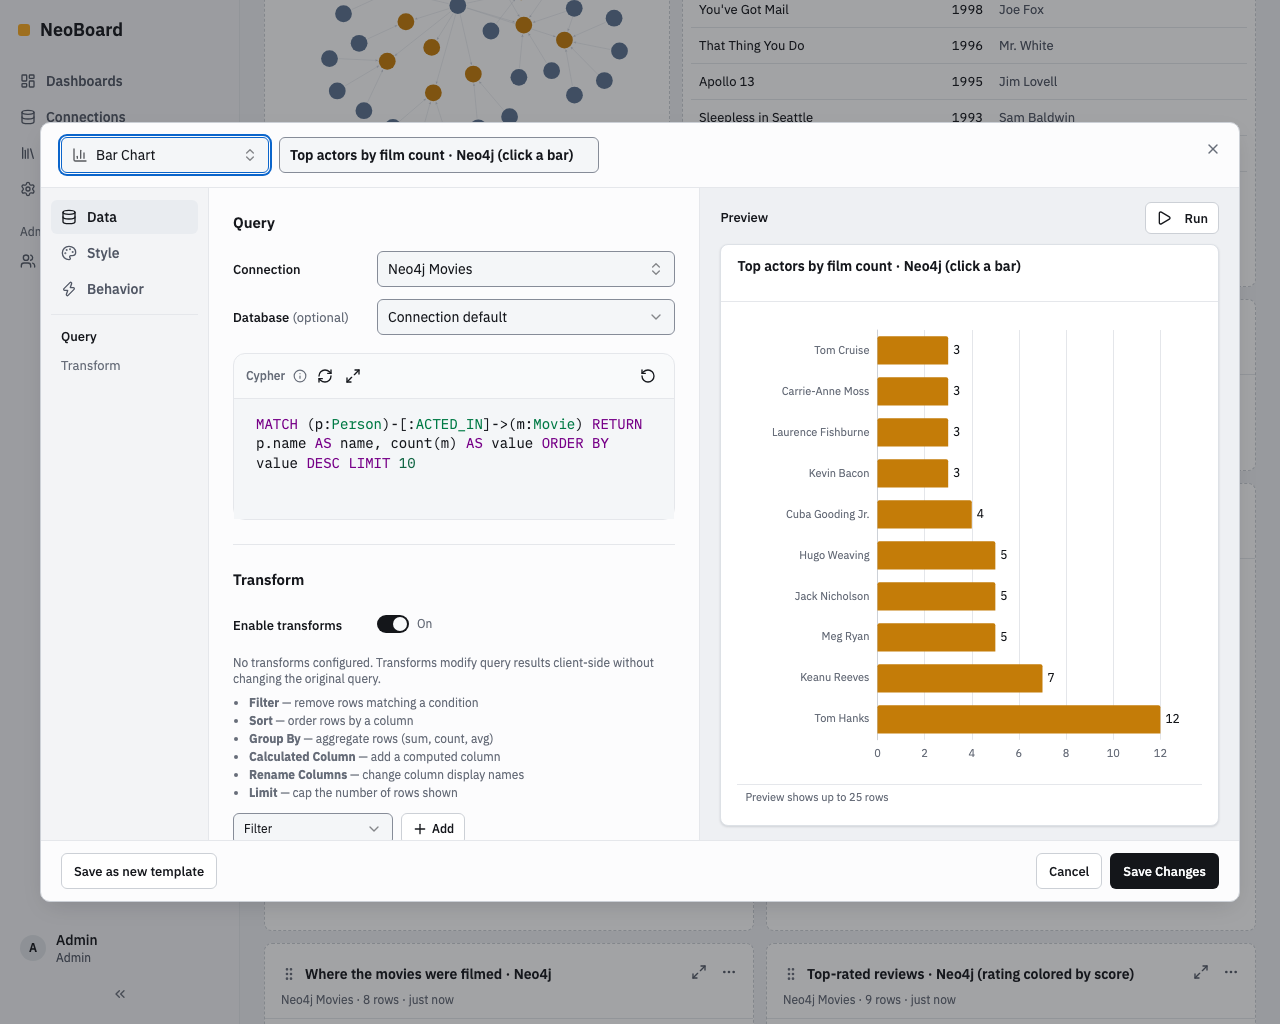
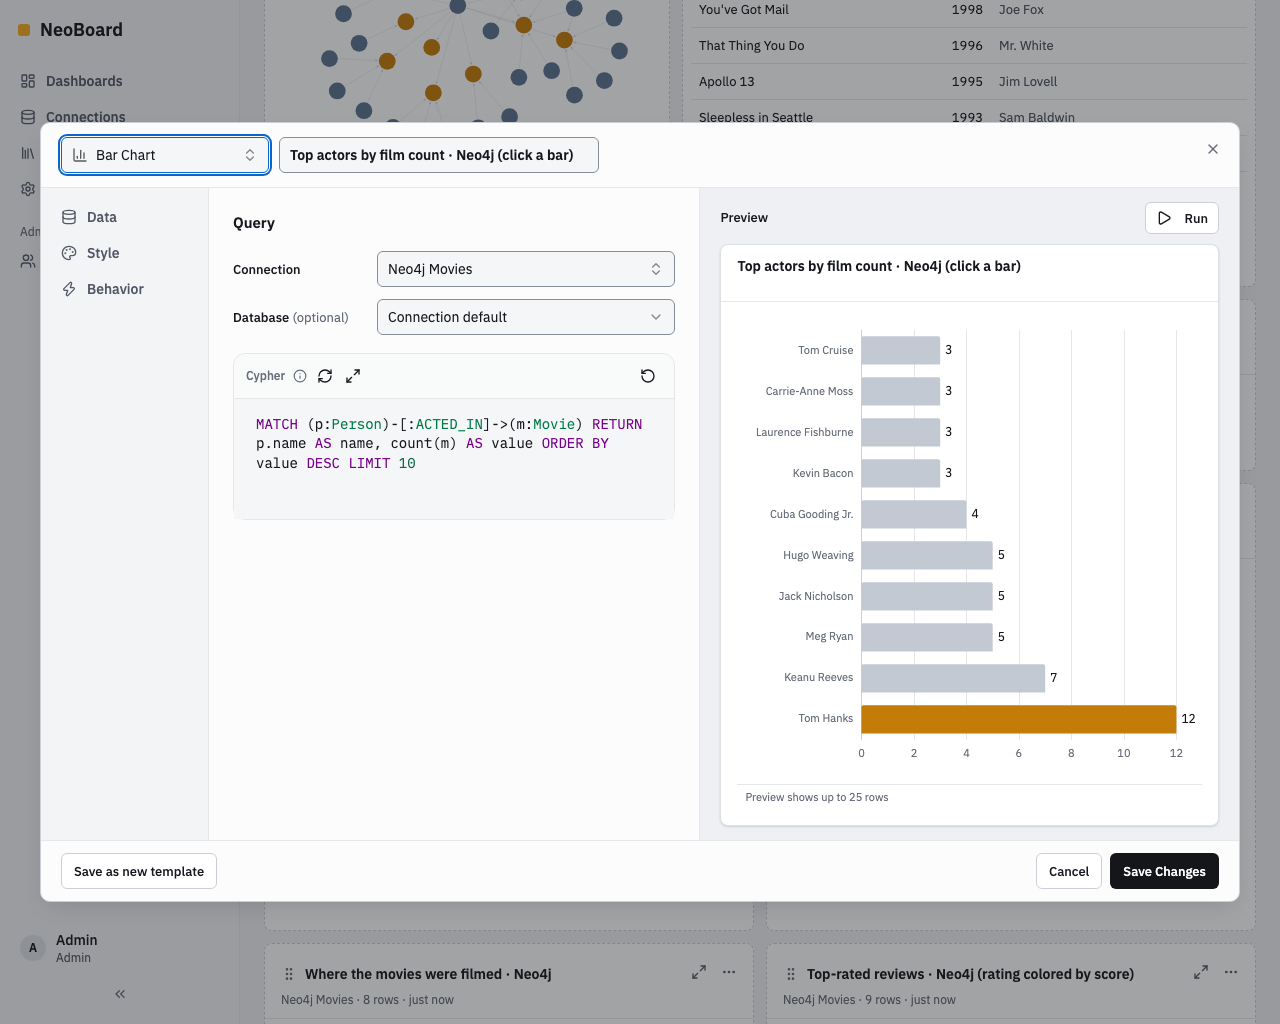
chore(widgets): the tour image, the E2E and the leftovers no longer mention transforms (#2423)

diff --git a/app/e2e/table-graph-cells.spec.ts b/app/e2e/table-graph-cells.spec.ts
@@ -17,6 +17,7 @@ async function tableDashboard(
   page: Page,
   query: string,
   chartOptions: Record<string, unknown>,
+  extraSettings: Record<string, unknown> = {},
 ) {
   const dashboard = await createTestDashboard(
     page.request,
@@ -38,6 +39,7 @@ async function tableDashboard(
                 query,
                 settings: {
                   title: "Graph cells",
+                  ...extraSettings,
                   chartOptions: { enablePagination: false, ...chartOptions },
                 },
               },
@@ -154,6 +156,33 @@ test.describe("Table widget — graph cells (#2050, #2070)", () => {
       await page.getByLabel("Filter m").fill("Cloud Atlas");
       await expect(rows).toHaveCount(1);
       await expect(rows.first()).toContainText('title: "Cloud Atlas"');
+    } finally {
+      await cleanup();
+    }
+  });
+
+  // #2423 — the Transform step is gone; a widget saved with transforms shows
+  // its raw rows instead of the transformed ones.
+  test("a widget saved with legacy transforms still shows all its rows (#2423)", async ({
+    page,
+  }) => {
+    test.setTimeout(90_000);
+    const { id, cleanup } = await tableDashboard(
+      page,
+      "MATCH (m:Movie) WHERE m.title IN ['Cloud Atlas', 'The Matrix', 'The Matrix Reloaded'] " +
+        "RETURN m.title AS title ORDER BY title",
+      {},
+      {
+        transformsEnabled: true,
+        transforms: [{ type: "limit", count: 1 }],
+      },
+    );
+
+    try {
+      await page.goto(`/${id}`);
+      await expect(
+        page.getByTestId("widget-card").locator("tbody tr"),
+      ).toHaveCount(3, { timeout: 20_000 });
     } finally {
       await cleanup();
     }

diff --git a/app/src/components/__tests__/widget-editor-modal-maximize.test.tsx b/app/src/components/__tests__/widget-editor-modal-maximize.test.tsx
@@ -783,7 +783,7 @@ describe("WidgetEditorModal — asks before dropping unsaved edits (#2054)", () 
 // alone, and the chart-type effect then put the options back to the type's
 // defaults whenever the store's last chart type was another one; its save
 // wrote all of that over the template. Use in Dashboard dropped the styling
-// rules, click action and transforms too.
+// rules and click action too (transforms were part of #2076; #2423 removed them).
 describe("WidgetEditorModal — a template opens as it was saved (#2076)", () => {
   const SETTINGS = {
     title: "Sales by region",
@@ -889,7 +889,7 @@ describe("WidgetEditorModal — a template opens as it was saved (#2076)", () =>
     );
   });
 
-  it("Edit Template opens with its styling rules, click action, transforms and color scales", async () => {
+  it("Edit Template opens with its styling rules, click action and color scales", async () => {
     await openEditor();
     expectTemplateLoaded();
     const s = useWidgetEditorStore.getState();
@@ -988,7 +988,7 @@ describe("WidgetEditorModal — a template opens as it was saved (#2076)", () =>
     },
   );
 
-  it("Use in Dashboard applies the template's styling rules, click action, transforms and color scales", async () => {
+  it("Use in Dashboard applies the template's styling rules, click action and color scales", async () => {
     await openEditor({
       mode: "add",
       template: undefined,

diff --git a/component/src/components/composed/__tests__/chart-settings-panel.test.tsx b/component/src/components/composed/__tests__/chart-settings-panel.test.tsx
@@ -15,7 +15,7 @@ beforeAll(() => {
 
 const data: SettingsGroup[] = [
   { name: "Query", render: () => <p>query box</p> },
-  { name: "Transform", render: () => <p>transform steps</p> },
+  { name: "Fields", render: () => <p>field list</p> },
 ];
 
 function Harness({
@@ -87,7 +87,7 @@ describe("ChartSettingsPanel (#2388)", () => {
       within(jumps)
         .getAllByRole("button")
         .map((b) => b.textContent),
-    ).toEqual(["Query", "Transform"]);
+    ).toEqual(["Query", "Fields"]);
   });
 
   it("shows the active section's groups in the fixed order, as links too", () => {

diff --git a/app/src/components/widget-editor/__tests__/use-auto-preview.test.tsx b/app/src/components/widget-editor/__tests__/use-auto-preview.test.tsx
@@ -361,7 +361,7 @@ describe("useAutoPreview", () => {
   // ── Duplicate auto-runs (#1762) ──────────────────────────────────
   //
   // The preview is a mutation: a run empties its data until the result lands,
-  // and the Transform tab unmounts its controls while it is empty. An auto-run
+  // and the Data section unmounts its controls while it is empty. An auto-run
   // of the query that just ran re-opened that window for nothing.
 
   describe("duplicate auto-runs (#1762)", () => {

diff --git a/app/src/components/widget-editor/use-auto-preview.ts b/app/src/components/widget-editor/use-auto-preview.ts
@@ -88,7 +88,7 @@ export function useAutoPreview({
   );
 
   // What the last run sent. The preview is a mutation, so every run empties its
-  // data until the result lands, and the Transform tab unmounts its controls
+  // data until the result lands, and the Data section unmounts its controls
   // while it is empty — an auto-run of what just ran re-opened that window for
   // nothing (#1762). Auto-runs skip a repeat; a manual Run always runs.
   const lastRunRef = useRef<string | null>(null);

diff --git a/component/stories/composed/chart-settings-panel.stories.tsx b/component/stories/composed/chart-settings-panel.stories.tsx
@@ -47,10 +47,10 @@ function Editor({
             ),
           },
           {
-            name: "Transform",
+            name: "Fields",
             render: () => (
-              <SettingRow label="Add a step" htmlFor="story-step">
-                <Input id="story-step" defaultValue="Filter" />
+              <SettingRow label="Field" htmlFor="story-step">
+                <Input id="story-step" defaultValue="name" />
               </SettingRow>
             ),
           },

diff --git a/component/src/lib/__tests__/cell-text.test.ts b/component/src/lib/__tests__/cell-text.test.ts
@@ -1,6 +1,6 @@
 /**
- * formatCell — the text a table cell shows, which the table, the transforms
- * and the styling rules all read (#2050, #2102). Moved here from
+ * formatCell — the text a table cell shows, which the table and the styling
+ * rules both read (#2050, #2102). Moved here from
  * table-renderer.test.tsx with the formatter itself.
  */
 import { describe, it, expect } from "vitest";

diff --git a/app/src/components/widget-editor-modal.tsx b/app/src/components/widget-editor-modal.tsx
@@ -395,7 +395,7 @@ export function WidgetEditorModal({
       : undefined,
   );
 
-  // The whole template, styling rules, click action and transforms included
+  // The whole template, styling rules, click action included
   // (#2076), on the connection already chosen or one the template can use.
   function applyTemplate(t: WidgetTemplate) {
     const current = useWidgetEditorStore.getState();

diff --git a/component/src/lib/cell-text.ts b/component/src/lib/cell-text.ts
@@ -1,6 +1,6 @@
 /**
- * The text a result cell shows. The table renders it, and the transforms and
- * styling rules filter, sort, group and match on it, so an object cell reads
+ * The text a result cell shows. The table renders it, and the styling rules
+ * match on it, so an object cell reads
  * the same everywhere and never as "[object Object]" (#2050, #2102).
  */
 import {

diff --git a/component/src/components/composed/chart-options/shared.ts b/component/src/components/composed/chart-options/shared.ts
@@ -14,7 +14,6 @@ export const OPTION_GROUPS = {
   Filter: "data",
   Query: "data",
   Fields: "data",
-  Transform: "data",
   // Style
   // Drawn by the editor, not by a chart: every widget has it (#2394)
   Card: "style",
